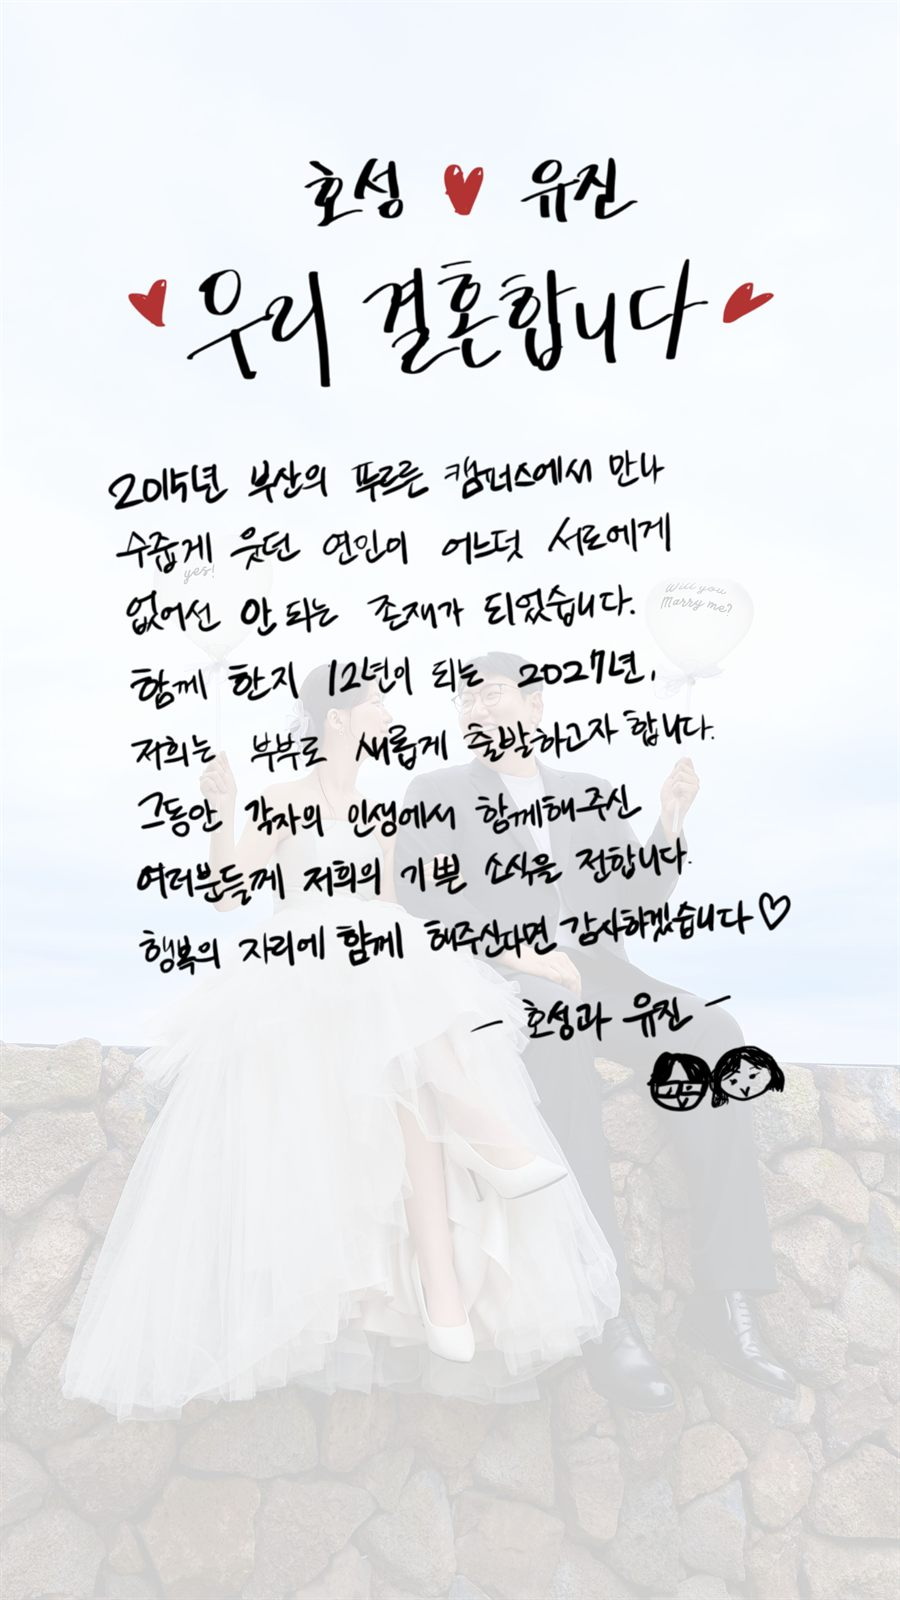
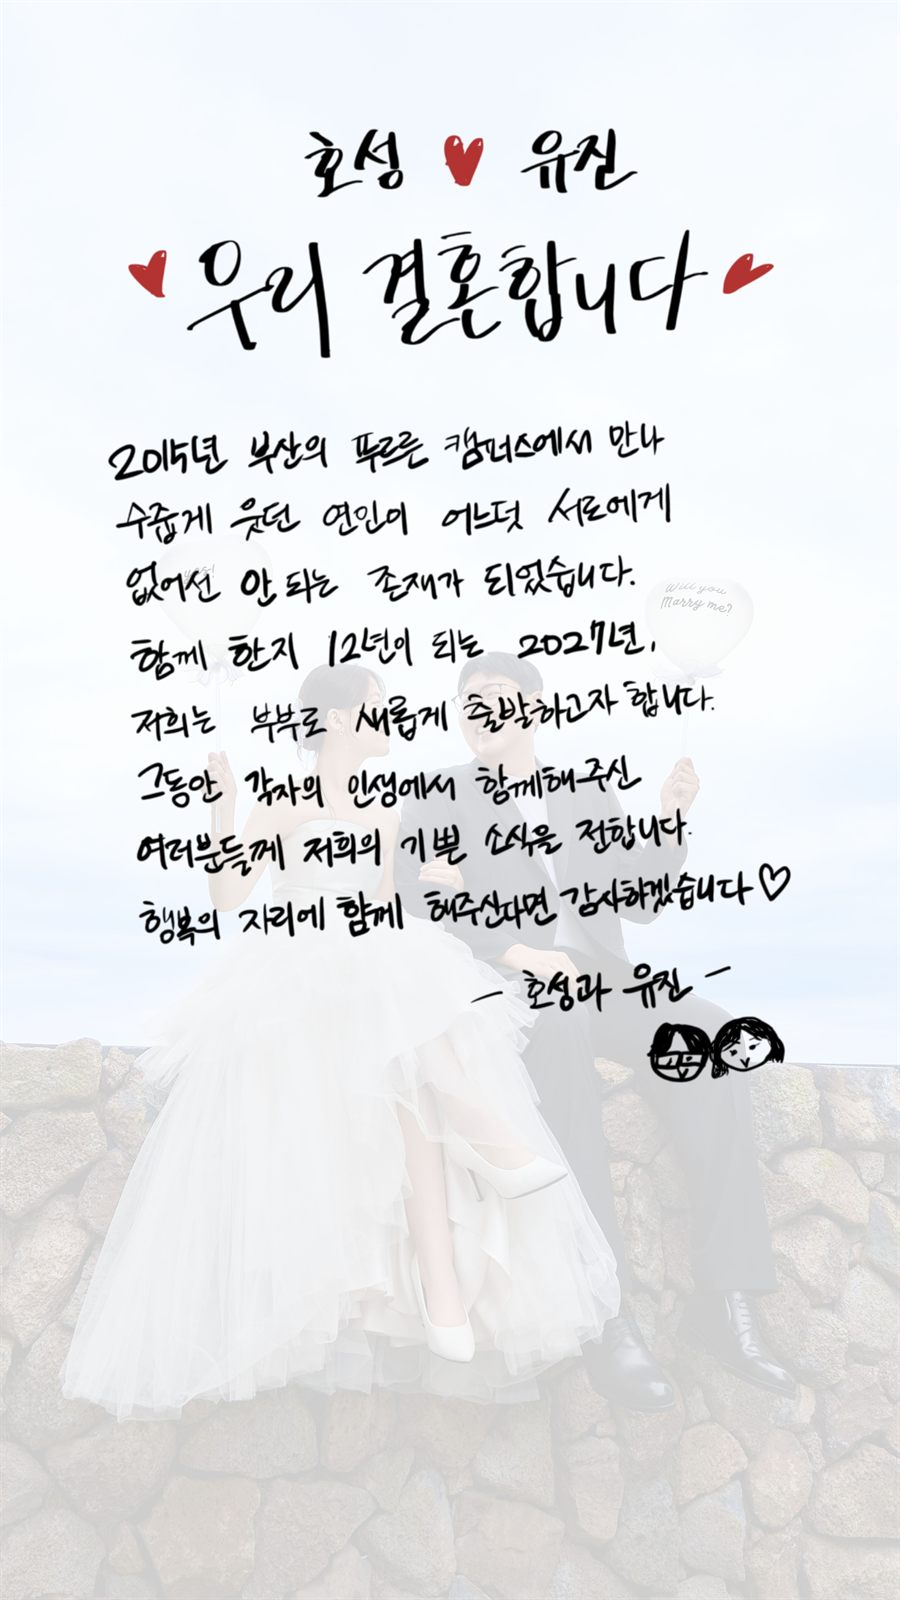
입장 연출: 검은 화면에서 부드럽게 밝아지기(2단 플래시 제거) + 새 인트로 1.jpg 압축

Changed region(s): [[0.1244, 0.0625, 0.8711, 0.7188], [0.8089, 0.1562, 0.8711, 0.2188], [0.1244, 0.1562, 0.1867, 0.2188]]

diff --git a/style-h.css b/style-h.css
@@ -377,25 +377,10 @@ body.has-cover.nav-opaque #menuBtn span { background:rgba(28,37,53,.38) !importa
   .film-track { animation:none; }
 }
 
-/* ── 로딩: 문구만 (어두운 배경 → 플래시 대비 강화) ── */
+/* ── 로딩: 어두운 화면에서 부드럽게 밝아지며 메인 사진 노출 ── */
 .loading-deco { display:none; }
-#loadingScreen { background:#14161b; }
-.loading-text { font-size:.9rem; letter-spacing:.35em; color:rgba(255,255,255,.82); }
-
-/* ── 입장 플래시 (어두운 준비중 → 흰 번쩍 → 메인 사진) ── */
-#flash {
-  position:fixed; inset:0; background:#fff;
-  opacity:0; pointer-events:none; z-index:10000;
-}
-#flash.fire { animation:flashFire 1.15s cubic-bezier(.2,.7,.2,1) forwards; }
-@keyframes flashFire {
-  0%   { opacity:0; }
-  5%   { opacity:1; }    /* 번쩍 */
-  14%  { opacity:.72; }
-  21%  { opacity:1; }    /* 두 번째 번쩍 */
-  55%  { opacity:.22; }
-  100% { opacity:0; }
-}
+#loadingScreen { background:#0b0c0f; transition:opacity 1s ease; }
+.loading-text { font-size:.9rem; letter-spacing:.35em; color:rgba(255,255,255,.7); }
 
 /* ── 배경음악 토글 버튼 (좌상단, 이퀄라이저) ── */
 #bgmBtn {

diff --git a/index.html b/index.html
@@ -27,9 +27,6 @@
   <div class="loading-text">준 비 중</div>
 </div>
 
-<!-- 메인 입장 시 플래시 -->
-<div id="flash"></div>
-
 <!-- 배경음악 (bgm.mp3 를 레포에 올리면 재생) -->
 <audio id="bgm" src="https://raw.githubusercontent.com/hoseong911/270117/main/bgm.mp3" loop preload="auto"></audio>
 <button id="bgmBtn" aria-label="배경음악 켜기/끄기"><i></i><i></i><i></i></button>
@@ -1283,10 +1280,8 @@ async function init() {
   initBgm();
 
   const loading = document.getElementById('loadingScreen');
-  const flash = document.getElementById('flash');
   loading.classList.add('hidden');
-  if (flash) flash.classList.add('fire');   // 메인 사진이 플래시 터지듯 드러남
-  setTimeout(() => loading.remove(), 700);
+  setTimeout(() => loading.remove(), 1100);
 }
 
 init().catch(console.error);
